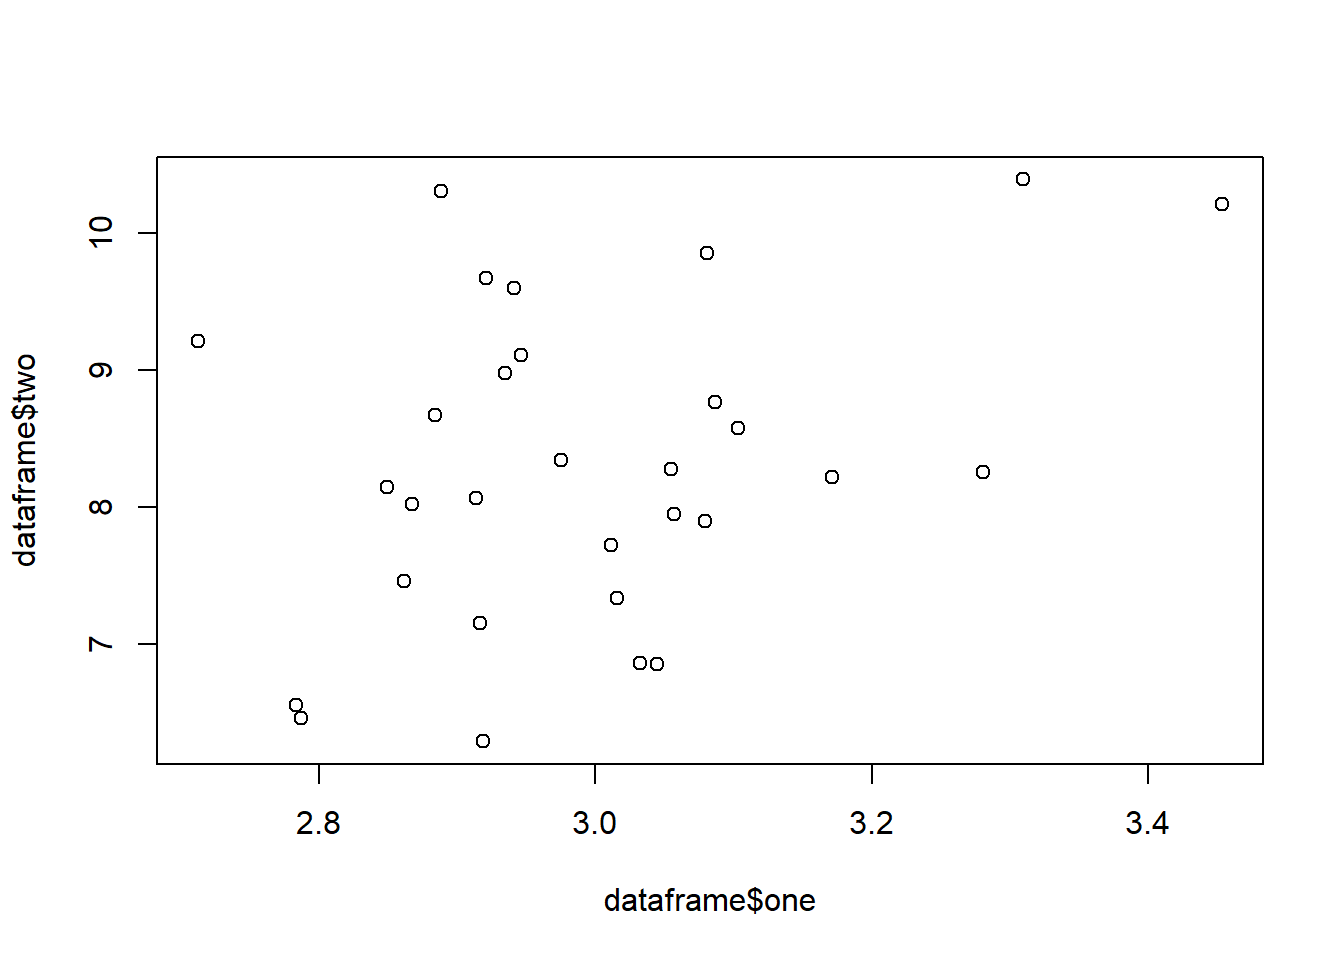
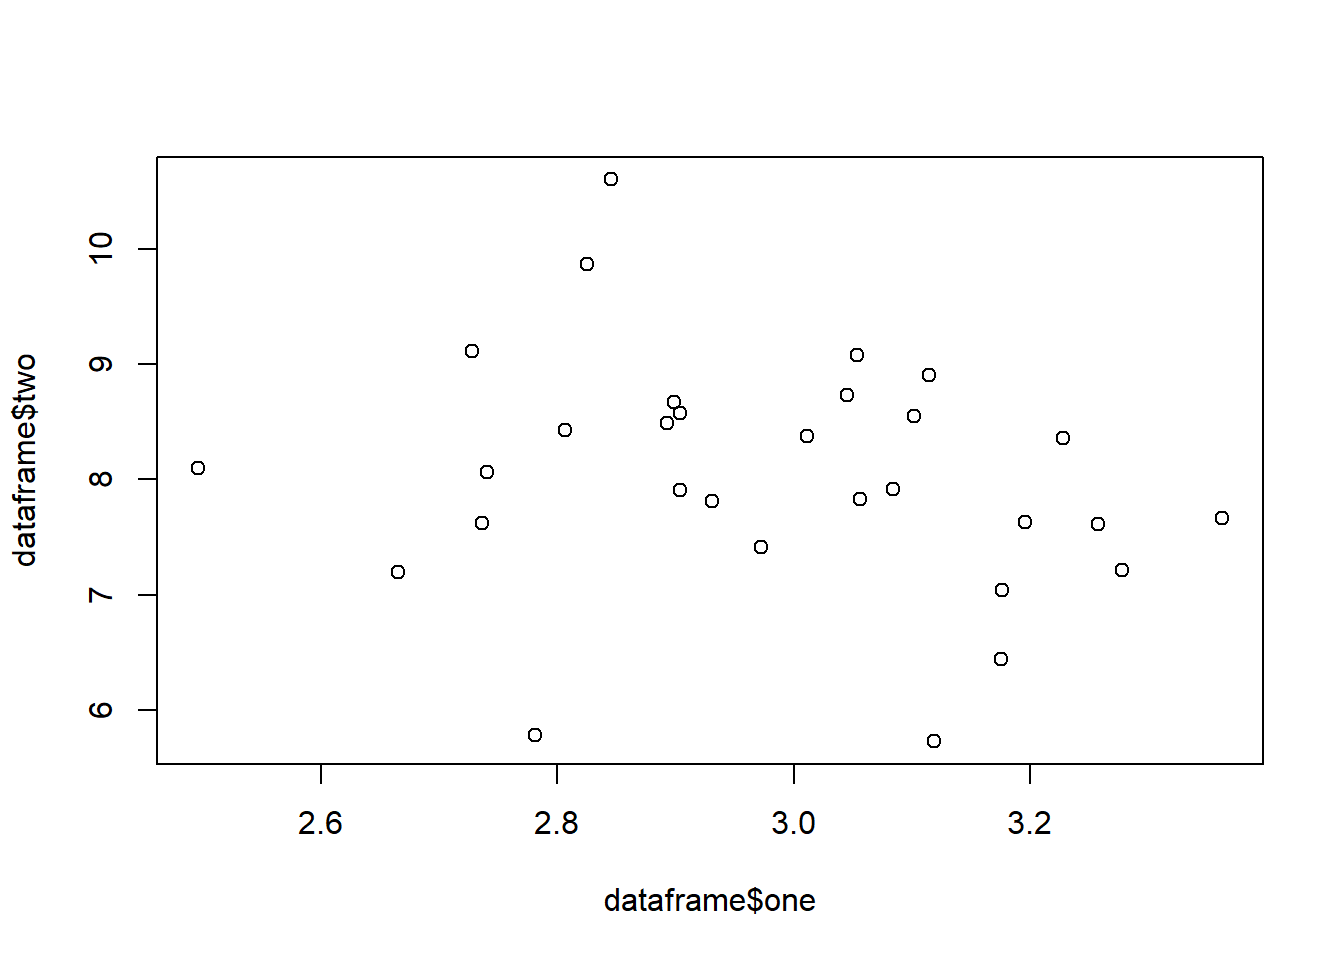
change in .yml file, wondering why it appeared as rmarkdown_dplyr instead of just dplyr

diff --git a/docs/index.html b/docs/index.html
@@ -287,7 +287,7 @@ $(document).ready(function () {
   <a href="index.html">Home</a>
 </li>
 <li>
-  <a href="Rmarkdown_dplyr.html">Dplyr</a>
+  <a href="dplyr.html">Dplyr</a>
 </li>
 <li>
   <a href="about.html">About</a>
@@ -332,28 +332,28 @@ third_column &lt;- runif(30, 1, 8)
 dataframe &lt;- data.frame(first_column, second_column, third_column)
 head(dataframe, 5)</code></pre>
 <pre><code>##   first_column second_column third_column
-## 1     3.453104     10.210521     4.711908
-## 2     2.975201      8.346277     1.782573
-## 3     2.913598      8.064709     3.214171
-## 4     2.916836      7.158101     3.711495
-## 5     2.941066      9.596032     4.308382</code></pre>
+## 1     2.806799      8.426058     4.966668
+## 2     3.257340      7.610567     7.705737
+## 3     2.930478      7.810342     2.824146
+## 4     2.972668      7.412962     2.936391
+## 5     2.898576      8.667546     7.255515</code></pre>
 <p>We can change the name to the dataframe columns</p>
 <pre class="r"><code>names(dataframe) &lt;- c(&quot;one&quot;, &quot;two&quot;, &quot;three&quot;)
 head(dataframe, 5)</code></pre>
-<pre><code>##        one       two    three
-## 1 3.453104 10.210521 4.711908
-## 2 2.975201  8.346277 1.782573
-## 3 2.913598  8.064709 3.214171
-## 4 2.916836  7.158101 3.711495
-## 5 2.941066  9.596032 4.308382</code></pre>
+<pre><code>##        one      two    three
+## 1 2.806799 8.426058 4.966668
+## 2 3.257340 7.610567 7.705737
+## 3 2.930478 7.810342 2.824146
+## 4 2.972668 7.412962 2.936391
+## 5 2.898576 8.667546 7.255515</code></pre>
 <p>Now we could select specific rows or columns by the bracket operator</p>
 <p>dataframe[rows, columns]</p>
 <pre class="r"><code>dataframe[1:4,1:2]</code></pre>
-<pre><code>##        one       two
-## 1 3.453104 10.210521
-## 2 2.975201  8.346277
-## 3 2.913598  8.064709
-## 4 2.916836  7.158101</code></pre>
+<pre><code>##        one      two
+## 1 2.806799 8.426058
+## 2 3.257340 7.610567
+## 3 2.930478 7.810342
+## 4 2.972668 7.412962</code></pre>
 <p>we could even plot one against each other</p>
 <pre class="r"><code>plot(dataframe$one, dataframe$two)</code></pre>
 <p><img src="index_files/figure-html/unnamed-chunk-6-1.png" width="672" /></p>

diff --git a/docs/about.html b/docs/about.html
@@ -287,7 +287,7 @@ $(document).ready(function () {
   <a href="index.html">Home</a>
 </li>
 <li>
-  <a href="Rmarkdown_dplyr.html">Dplyr</a>
+  <a href="dplyr.html">Dplyr</a>
 </li>
 <li>
   <a href="about.html">About</a>

diff --git a/docs/dplyr.html b/docs/dplyr.html
@@ -287,7 +287,7 @@ $(document).ready(function () {
   <a href="index.html">Home</a>
 </li>
 <li>
-  <a href="Rmarkdown_dplyr.html">Dplyr</a>
+  <a href="dplyr.html">Dplyr</a>
 </li>
 <li>
   <a href="about.html">About</a>
